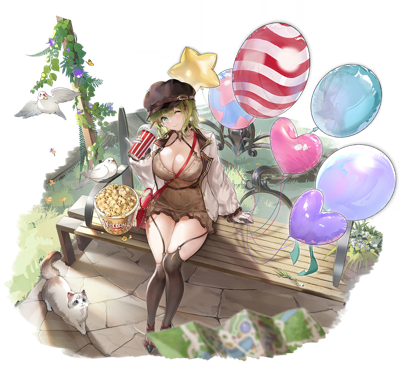
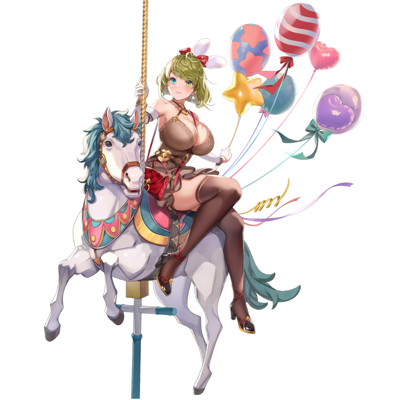
Fix Iori

diff --git a/js/charData.js b/js/charData.js
@@ -62,7 +62,7 @@ var charData = [
 	"huangzhong_1","huangzhong_2","huangzhong_3","huangzhong_ur",
 	"huatuo_1","huatuo_2","huatuo_3",
 	"hugo_1","hugo_2","hugo_3",
-	"iori_1","iori_2",
+	"iori_1","iori_2","iori_ssr_1","iori_ssr_2",
 	"izumo_1","izumo_2","izumo_3","izumo_ur",
 	"jingke_1","jingke_2","jingke_3","jingke_ur",
 	"kasumi_1","kasumi_2","kasumi_3",
